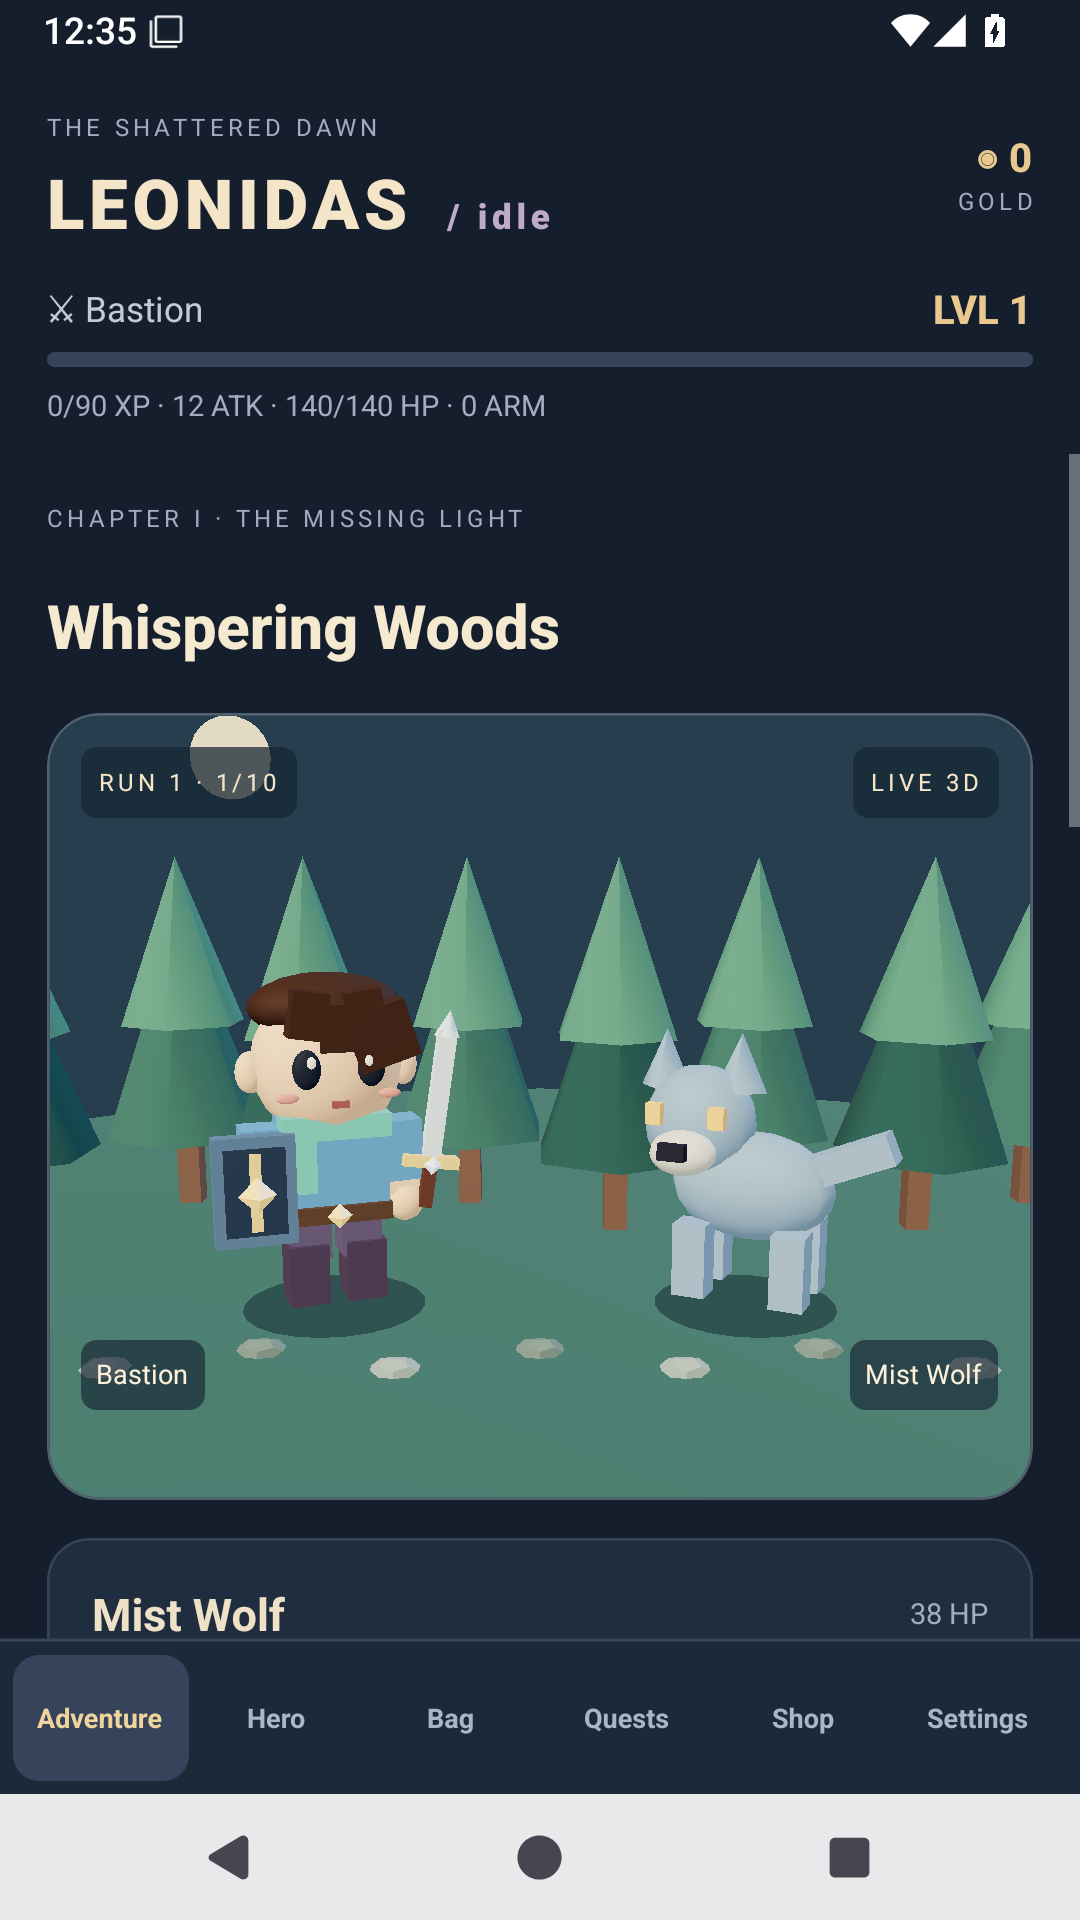
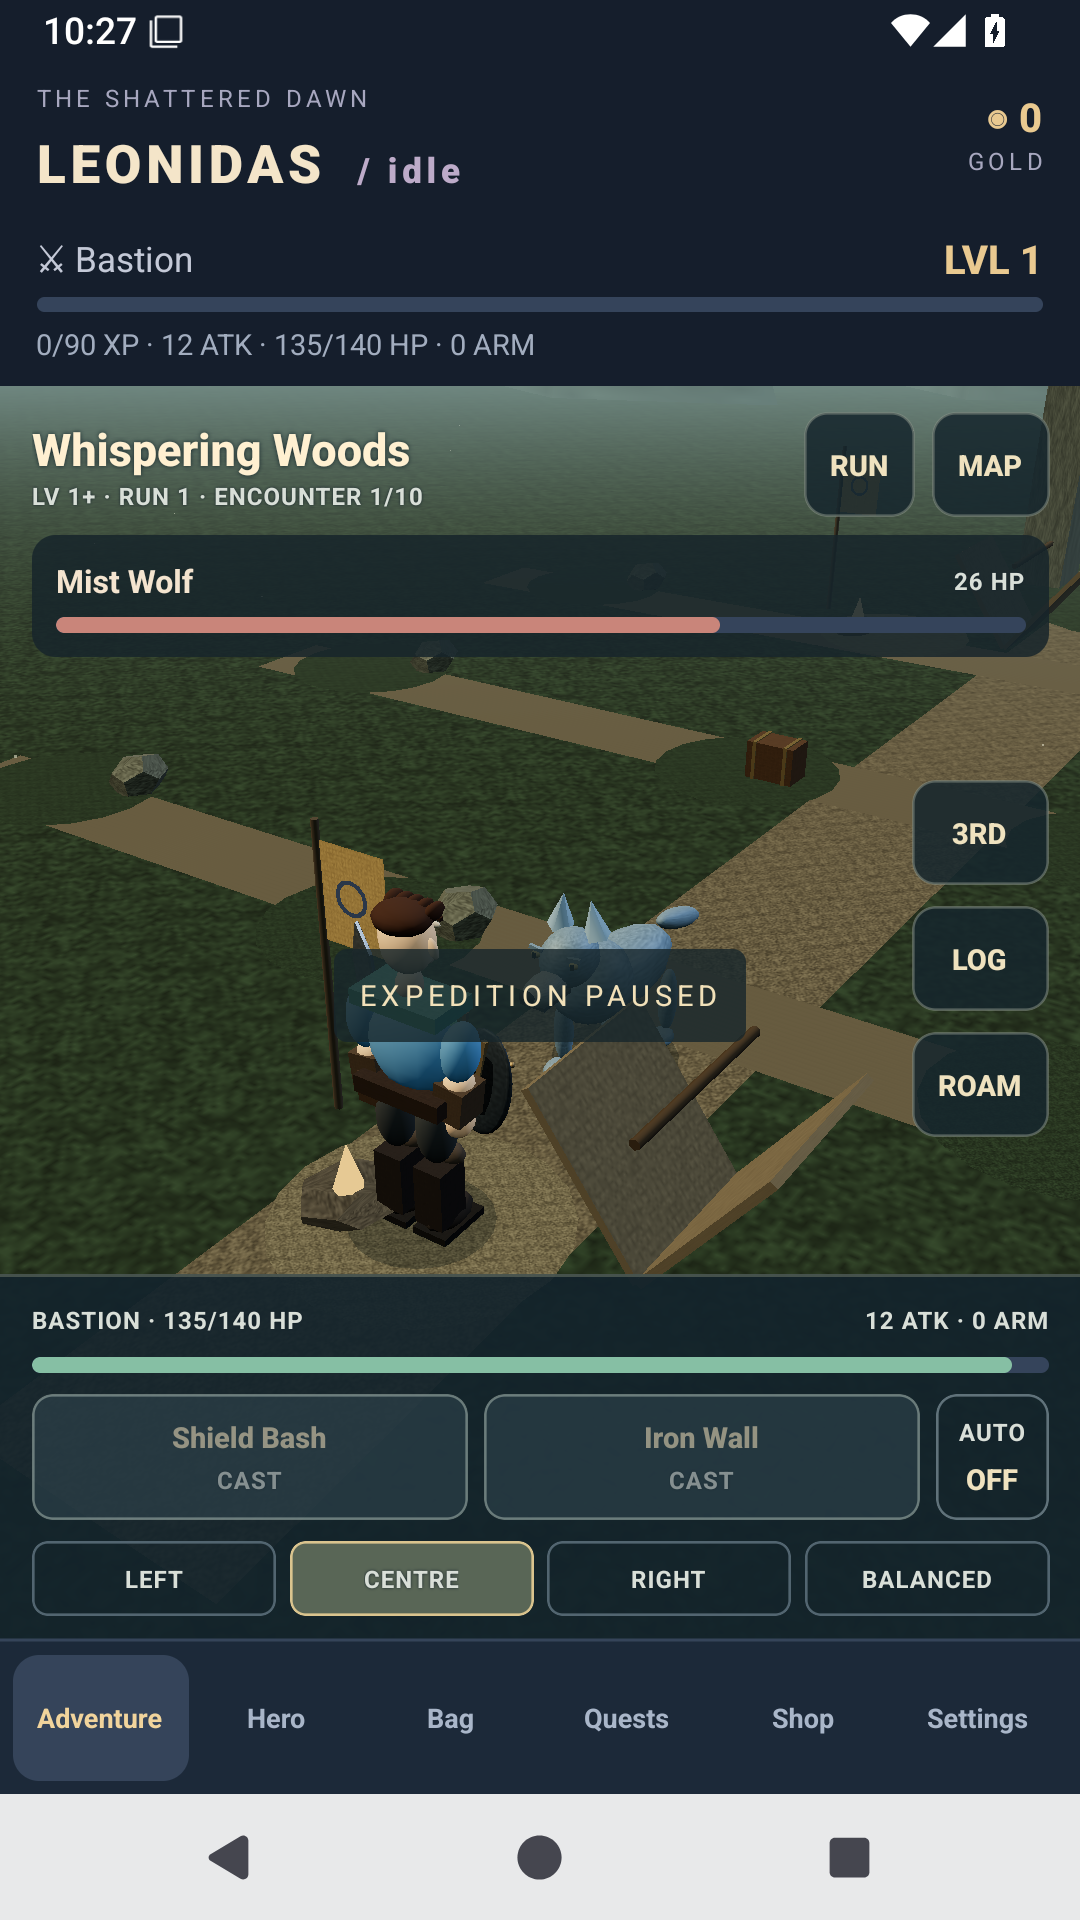
Project damage numbers onto the correct actors in revised 0.4.0 build 4

diff --git a/src/visuals/BattleWorld.tsx b/src/visuals/BattleWorld.tsx
@@ -11,7 +11,7 @@ import {
   type State,
   bossWarning,
 } from "../engine";
-import { BIOMES, ZONES, classFor } from "../content";
+import { BIOMES, ZONES, RACES, classFor } from "../content";
 const EFFECTS = {
   steel: "#e7d7ac",
   fire: "#ff9b61",
@@ -164,14 +164,17 @@ function CameraRig({ state, preview }: { state: State; preview: boolean }) {
   });
   return null;
 }
-export function BattleWorld({
+export type ScreenAnchors = Record<"hero" | "enemy", { x: number; y: number }>;
+function WorldScene({
   state,
   preview = false,
   running = true,
+  onAnchors,
 }: {
   state: State;
   preview?: boolean;
   running?: boolean;
+  onAnchors?: (anchors: ScreenAnchors) => void;
 }) {
   const hero = useRef<THREE.Group>(null),
     foe = useRef<THREE.Group>(null),
@@ -187,6 +190,10 @@ export function BattleWorld({
     walking = useRef(0),
     heroTarget = useRef(new THREE.Vector3()),
     friendTarget = useRef(new THREE.Vector3());
+  const camera = useThree((s) => s.camera);
+  const projectionTime = useRef(0.2),
+    heroProbe = useRef(new THREE.Vector3()),
+    enemyProbe = useRef(new THREE.Vector3());
   const biome = BIOMES[state.zone % BIOMES.length],
     roam = state.world.mode === "explore";
   const nodes = useMemo(
@@ -245,6 +252,47 @@ export function BattleWorld({
     if (foe.current) {
       foe.current.position.set(bx, 0, bz - 2.1 + enemyAttack.current * 0.25);
       foe.current.rotation.z = attack.current * 0.025;
+    }
+    projectionTime.current += delta;
+    if (
+      !preview &&
+      !roam &&
+      onAnchors &&
+      hero.current &&
+      foe.current &&
+      projectionTime.current >= 0.2
+    ) {
+      projectionTime.current = 0;
+      camera.updateMatrixWorld();
+      const enemy = currentEnemy(state);
+      const raceScale = RACES.find((r) => r.id === state.race)?.scale[1] ?? 1;
+      hero.current.getWorldPosition(heroProbe.current);
+      heroProbe.current.y +=
+        state.combat.form === "human" ? 1.8 * raceScale : 1.3;
+      foe.current.getWorldPosition(enemyProbe.current);
+      enemyProbe.current.y +=
+        enemy.art === "boss"
+          ? 2.8
+          : enemy.art === "dragon"
+            ? 2.5
+            : enemy.art === "golem"
+              ? enemy.mechanic
+                ? 3.2
+                : 2.2
+              : enemy.art === "soldier"
+                ? 2.1
+                : 1.4;
+      const screen = (point: THREE.Vector3) => {
+        point.project(camera);
+        return {
+          x: THREE.MathUtils.clamp((point.x + 1) / 2, 0.08, 0.86),
+          y: THREE.MathUtils.clamp((1 - point.y) / 2, 0.2, 0.84),
+        };
+      };
+      onAnchors({
+        hero: screen(heroProbe.current),
+        enemy: screen(enemyProbe.current),
+      });
     }
     if (spell.current) {
       spell.current.visible = !preview && !roam && ranged && p < 0.9;
@@ -428,3 +476,5 @@ export function BattleWorld({
     </>
   );
 }
+
+export const BattleWorld = React.memo(WorldScene);

diff --git a/src/components/BattleScene.tsx b/src/components/BattleScene.tsx
@@ -1,7 +1,14 @@
-import React, { Component, useEffect, useRef, type ReactNode } from "react";
+import React, {
+  Component,
+  useEffect,
+  useRef,
+  useState,
+  useCallback,
+  type ReactNode,
+} from "react";
 import { Animated, StyleSheet, Text, View } from "react-native";
 import { ThreeStage } from "./ThreeStage";
-import { BattleWorld } from "../visuals/BattleWorld";
+import { BattleWorld, type ScreenAnchors } from "../visuals/BattleWorld";
 import { type State, currentEnemy } from "../engine";
 import { classFor } from "../content";
 import { DamageNumbers } from "./DamageNumbers";
@@ -41,6 +48,21 @@ export function BattleScene({
   expanded?: boolean;
   rendering?: boolean;
 }) {
+  const [anchors, setAnchors] = useState<ScreenAnchors>({
+    hero: { x: 0.3, y: 0.58 },
+    enemy: { x: 0.65, y: 0.4 },
+  });
+  const placeNumbers = useCallback((next: ScreenAnchors) => {
+    setAnchors((previous) =>
+      Math.abs(previous.hero.x - next.hero.x) +
+        Math.abs(previous.hero.y - next.hero.y) +
+        Math.abs(previous.enemy.x - next.enemy.x) +
+        Math.abs(previous.enemy.y - next.enemy.y) <
+      0.004
+        ? previous
+        : next,
+    );
+  }, []);
   return (
     <View
       pointerEvents="none"
@@ -59,7 +81,12 @@ export function BattleScene({
       {active ? (
         <SceneBoundary>
           <ThreeStage lowPower={state.settings.lowPower} rendering={rendering}>
-            <BattleWorld state={state} running={running} preview={preview} />
+            <BattleWorld
+              state={state}
+              running={running}
+              preview={preview}
+              onAnchors={placeNumbers}
+            />
           </ThreeStage>
         </SceneBoundary>
       ) : (
@@ -83,7 +110,7 @@ export function BattleScene({
           <Text style={styles.name}>{currentEnemy(state).name}</Text>
         </View>
       )}
-      {!preview && <DamageNumbers state={state} />}
+      {!preview && <DamageNumbers state={state} anchors={anchors} />}
       {!preview && !expanded && (!running || state.run.choicePending) && (
         <Text pointerEvents="none" style={styles.paused}>
           {state.run.choicePending

diff --git a/src/components/DamageNumbers.tsx b/src/components/DamageNumbers.tsx
@@ -1,15 +1,16 @@
 import React, { useEffect, useRef, useState } from "react";
 import { Animated, StyleSheet, View } from "react-native";
+import type { ScreenAnchors } from "../visuals/BattleWorld";
 import type { State } from "../engine";
 type Hit = State["floats"][number];
 function Burst({
   hit,
   index,
-  third,
+  anchor,
 }: {
   hit: Hit;
   index: number;
-  third: boolean;
+  anchor: ScreenAnchors["hero"];
 }) {
   const rise = useRef(new Animated.Value(0)).current,
     opacity = useRef(new Animated.Value(0)).current,
@@ -77,22 +78,16 @@ function Burst({
             : `${hit.amount}`;
   return (
     <Animated.View
+      accessibilityLabel={`Damage to ${hit.target}: ${hit.amount}`}
       style={[
         styles.burst,
         {
-          left:
-            hit.target === "enemy"
-              ? third
-                ? "43%"
-                : "42%"
-              : third
-                ? "30%"
-                : "57%",
-          top: hit.target === "enemy" ? "35%" : "57%",
+          left: `${anchor.x * 100}%`,
+          top: `${anchor.y * 100}%`,
           opacity,
           transform: [
             { translateY: rise },
-            { translateX: ((index % 3) - 1) * 24 },
+            { translateX: -30 + ((index % 3) - 1) * 18 },
             { scale },
           ],
         },
@@ -114,7 +109,13 @@ function Burst({
     </Animated.View>
   );
 }
-export function DamageNumbers({ state }: { state: State }) {
+export function DamageNumbers({
+  state,
+  anchors,
+}: {
+  state: State;
+  anchors: ScreenAnchors;
+}) {
   const seen = useRef(state.floatSerial),
     [hits, setHits] = useState<Hit[]>([]),
     timeouts = useRef<ReturnType<typeof setTimeout>[]>([]);
@@ -134,12 +135,7 @@ export function DamageNumbers({ state }: { state: State }) {
   return (
     <View pointerEvents="none" style={StyleSheet.absoluteFill}>
       {hits.map((h, i) => (
-        <Burst
-          key={h.id}
-          hit={h}
-          index={i}
-          third={state.world.camera === "third"}
-        />
+        <Burst key={h.id} hit={h} index={i} anchor={anchors[h.target]} />
       ))}
     </View>
   );

diff --git a/UPDATELOG.md b/UPDATELOG.md
@@ -6,7 +6,7 @@ A full-height gameplay viewport, playable third-person exploration and a seeded 
 
 The presentation moves away from chibi proportions toward taller articulated figures, fitted equipment and restrained materials. This remains an original lightweight procedural 3D alpha, with compact regional exploration rather than a seamless continent. The launcher image is separate promotional illustration. See [the changelog](CHANGELOG.md), [playing guide](docs/PLAYING.md) and [extension guide](docs/EXTENDING.md).
 
-The package remains `com.leonidas.idlerpgv3`, versionCode is `3`, and schemas 2/3 migrate to schema 4 under the existing save key. Existing class, level, currencies, gear, appearance, quests and boss progress are retained. New saves include heritage, faction, companion ownership, tactics, world location, destination and camera choice.
+The package remains `com.leonidas.idlerpgv3`, versionCode is `4` for the revised build, and schemas 2/3 migrate to schema 4 under the existing save key. Existing class, level, currencies, gear, appearance, quests and boss progress are retained. New saves include heritage, faction, companion ownership, tactics, world location, destination and camera choice.
 
 ### Local validation
 
@@ -14,7 +14,9 @@ The package remains `com.leonidas.idlerpgv3`, versionCode is `3`, and schemas 2/
 - Real WebGL browser checks passed for the large viewport, all classes/bosses/races, third-person movement, camera swaps, atlas navigation/cache collection, companion hiring/switching, faction choice and tactics; 390 × 844 and 320 × 740 layouts are covered.
 - Standalone native Android build succeeded with Hermes, ARM64/x86_64 Expo GL libraries and sixteen bundled WAV assets. Package/version/minimum SDK and APK signature were inspected; the signing certificate matches 0.3.0.
 
-Final GitHub Actions/emulator results and published artifact checksums will be added after release verification.
+The initial build 3 passed its complete workflow and was published at `v0.4.0`. A final screenshot review found that floating numbers used fixed screen positions. Build 4 projects the hero and enemy through the current 3D camera and keeps their numbers on the correct actor in both views. The initial release remains archived; use the revised [0.4.0 build 4](https://github.com/henkdepotvis0180/idleRPGLeonidasv3/releases/tag/v0.4.0-r4) for the corrected presentation.
+
+Final build-4 workflow results and published checksums are recorded after verification.
 
 ## 14 October 2026 — 0.3.0: heroes take shape
 

diff --git a/CHANGELOG.md b/CHANGELOG.md
@@ -18,7 +18,7 @@
 - Add six permanent companions bought with earned in-game gold. One follows at a time; allies provide damage, armor or timed healing and appear alongside the hero.
 - Add left/centre/right positions and Balanced, Assault and Guard stances with explicit damage/defence tradeoffs.
 - Add lane telegraphs to later bosses. Moving away before impact reduces incoming damage; staying in the marked lane increases it.
-- Show outgoing and incoming damage, critical hits, healing, absorbed damage and dodges as separate animated floating numbers with bounded event history.
+- Show outgoing and incoming damage, critical hits, healing, absorbed damage and dodges as separate animated floating numbers with bounded event history. The revised build projects the actual hero/enemy positions through the 3D camera, keeping the numbers attached to the correct actor in either view.
 
 ### Materials, gear and sound
 
@@ -32,9 +32,11 @@
 ### Compatibility and development
 
 - Retain all fourteen classes and twenty-eight abilities, sixteen slots, dailies, shops, offline rewards and the original save key.
-- Migrate schema-2 and schema-3 saves to schema 4 without losing permanent progress or equipment; keep the Android package/signing identity and increment versionCode to 3.
+- Migrate schema-2 and schema-3 saves to schema 4 without losing permanent progress or equipment; keep the Android package/signing identity and use Android versionCode 4 for the revised build (the initial 0.4.0 build used 3).
 - Extend modular content tables and optional exploration/companion switches; document the atlas, boss mechanics, item generation and sound mapping.
 - Expand gameplay/save tests, real WebGL browser interaction checks and installed-APK Android checks for the new features.
+- Pause drawing behind panels while retaining the native GL context; cap native drawing at 30 FPS (20 in low graphics), with animation timing independent of the gameplay tick.
+- Read the live Android accessibility tree with a temporary emulator-only helper so active idle combat cannot produce stale control coordinates during tests.
 - Include a source ZIP and SHA-256 alongside the standalone APK in the tested GitHub release workflow.
 
 ## 0.3.0 — 14 October 2026

diff --git a/README.md b/README.md
@@ -2,7 +2,7 @@
 
 An English-language idle roguelike RPG for Android, with a playable 3D frontier, original fantasy story and modular content. Built with React Native, Expo, Three.js and React Three Fiber.
 
-**[Download release 0.4.0: APK + source ZIP](https://github.com/henkdepotvis0180/idleRPGLeonidasv3/releases/tag/v0.4.0)** · [Changelog](CHANGELOG.md) · [Update log](UPDATELOG.md) · [Playing guide](docs/PLAYING.md)
+**[Download release 0.4.0: APK + source ZIP](https://github.com/henkdepotvis0180/idleRPGLeonidasv3/releases/tag/v0.4.0-r4)** · [Changelog](CHANGELOG.md) · [Update log](UPDATELOG.md) · [Playing guide](docs/PLAYING.md)
 
 The standalone APK includes the game, models, textures and audio. No account, Expo Go or development server is needed. Android 7.0+, ARM64 and OpenGL ES 3-capable hardware are recommended. This remains a test alpha, using lightweight procedural 3D models; the realistic launcher illustration is promotional artwork.
 
@@ -25,7 +25,7 @@ The game takes broad genre inspiration from fantasy RPGs, with original names, a
 
 ## Install or update
 
-Download `idleRPGLeonidasv3-0.4.0.apk` from the release and install it over the existing Leonidas V3 app. The package remains `com.leonidas.idlerpgv3`, Android versionCode is `3`, and the original storage key remains in use. Uninstalling removes local progress; saves do not sync across devices.
+Download `idleRPGLeonidasv3-0.4.0.apk` from the release and install it over the existing Leonidas V3 app. The package remains `com.leonidas.idlerpgv3`, Android versionCode is `4`, and the original storage key remains in use. Uninstalling removes local progress; saves do not sync across devices.
 
 The app uses a test signing key for these alpha updates. A fixed private release key is needed before public distribution. Signing keys and credentials must never enter the source archive.
 

diff --git a/docs/EXTENDING.md b/docs/EXTENDING.md
@@ -61,6 +61,12 @@ Run `python3 scripts/generate-audio.py` to regenerate the original deterministic
 
 The launcher icon is original generated artwork. Asset provenance and legacy icon licenses are in `assets/ATTRIBUTION.md`.
 
+## Native rendering and UI verification
+
+The native canvas uses an explicit draw scheduler capped at 30 FPS, or 20 in low graphics. Panels pause drawing and keep the GL context alive, avoiding expensive teardown during map/journal transitions. Animation deltas remain separate from one-second combat ticks. Browser scenes use their normal frame loop.
+
+Android checks build a separate temporary headless test APK from `tests/native/`. It reads the live accessibility tree without waiting for an idle screen; animated/automatic games otherwise give stale coordinates. The helper and its generated test key stay in ignored build outputs and are not bundled into the game APK. `Diagnose existing Android APK` can exercise an already-built artifact during diagnosis; release publication still requires the complete source build workflow to succeed.
+
 ## Saves and releases
 
 The app ID and storage key are stable. Version 0.4.0 writes schema 4 and migrates schemas 2 and 3 before validation. Schema 4 adds heritage, factions, company, tactics, world state, combat turns and bounded damage events. Keep the real schema-2 fixture test when changing migration behavior. Unknown or corrupted structures are rejected safely; development builds should not overwrite real device saves unintentionally.
